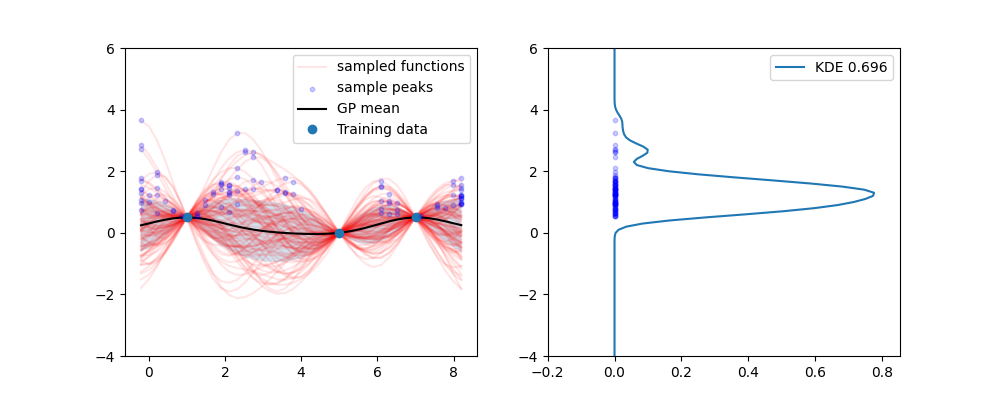
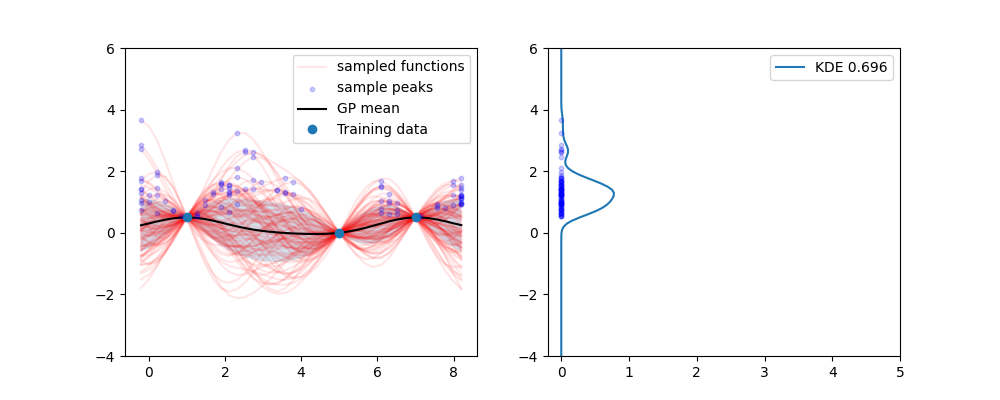
updated animation

diff --git a/MES_VI/plot_MV_entropy.py b/MES_VI/plot_MV_entropy.py
@@ -13,6 +13,7 @@ def plot_gp_and_kde(
     n_x:int=101,
     y_min:float=-4,
     y_max:float=6,
+    kde_dens_max:float=5
 ) -> tuple[plt.figure, float]:
     """
     Plot the GP and KDE for a 1D regression problem.
@@ -77,7 +78,7 @@ def plot_gp_and_kde(
     ax.plot(y_kde_densities, y_kde_points, label=f'KDE {kde.entropy:.3f}')
     ax.scatter([0] * n_samples, y_star_samples, color='b', alpha=0.2, s=10, zorder=10)
     ax.set_ylim(y_min, y_max)
-    ax.set_xlim(-0.2, max(y_kde_densities) * 1.1)
+    ax.set_xlim(-0.2, kde_dens_max)
     ax.legend()
 
     return fig, kde.entropy

diff --git a/README.md b/README.md
@@ -5,3 +5,16 @@ Collections of toy expertiments for approximating Max Value entropy Search
 ![Distribution of Max Values gitven 3 points](scripts/original_data.png)
 
 ![Max value varying for one synthetic point](scripts/animation.gif)
+
+
+# Setup
+```
+pip install -e .
+```
+
+# Usage
+This makes the images and animation
+```
+cd scripts
+python main.py
+```
